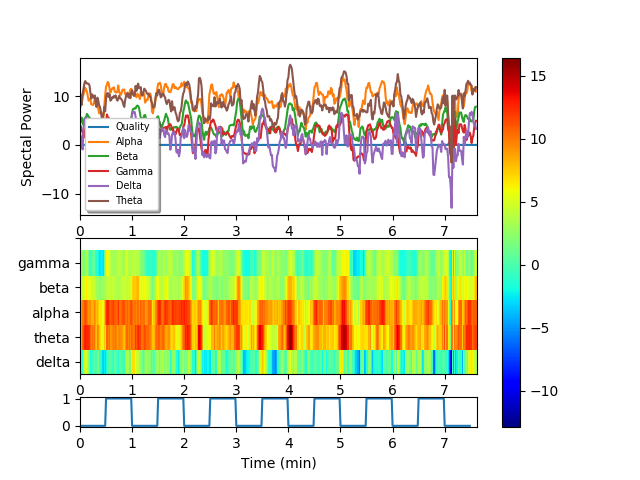
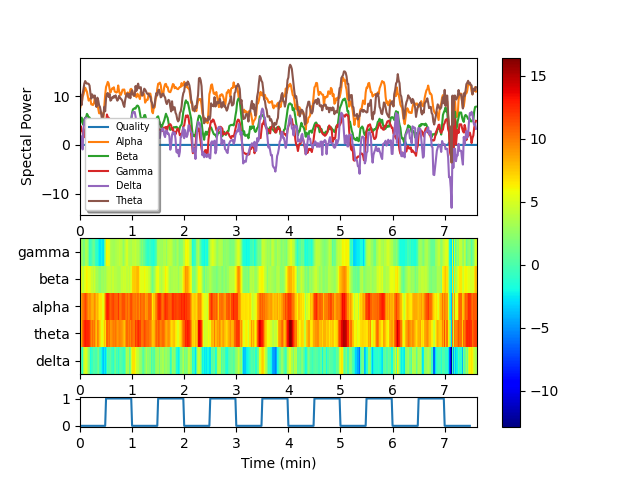
Corrected the label length

diff --git a/brainview.py b/brainview.py
@@ -111,13 +111,13 @@ def main(argv):
    grid = [delta,theta,alpha,beta,gamma]
    #print(np.size(grid,1))
    grid_plot = ax1.pcolor(grid, cmap='jet')
-   x_label = ['0', '1', '2', '3', '4', '5', '6','7','8']
+   x_label = ['0', '1', '2', '3', '4', '5', '6','7']
    y_label = ['delta', 'theta', 'alpha', 'beta', 'gamma']
    plt.colorbar(grid_plot, ax=[ax0,ax1,ax2])
    plt.sca(ax1)
 
    plt.xticks(np.arange(0, x_size, 60),x_label)
-   plt.yticks(np.arange(0.5, np.size(grid,0)+1,1), y_label)
+   plt.yticks(np.arange(0.5, np.size(grid,0),1), y_label)
    legend = ax0.legend(loc='best', shadow=True, fontsize = 'x-small')
 
    plt.savefig("myplot.png")
